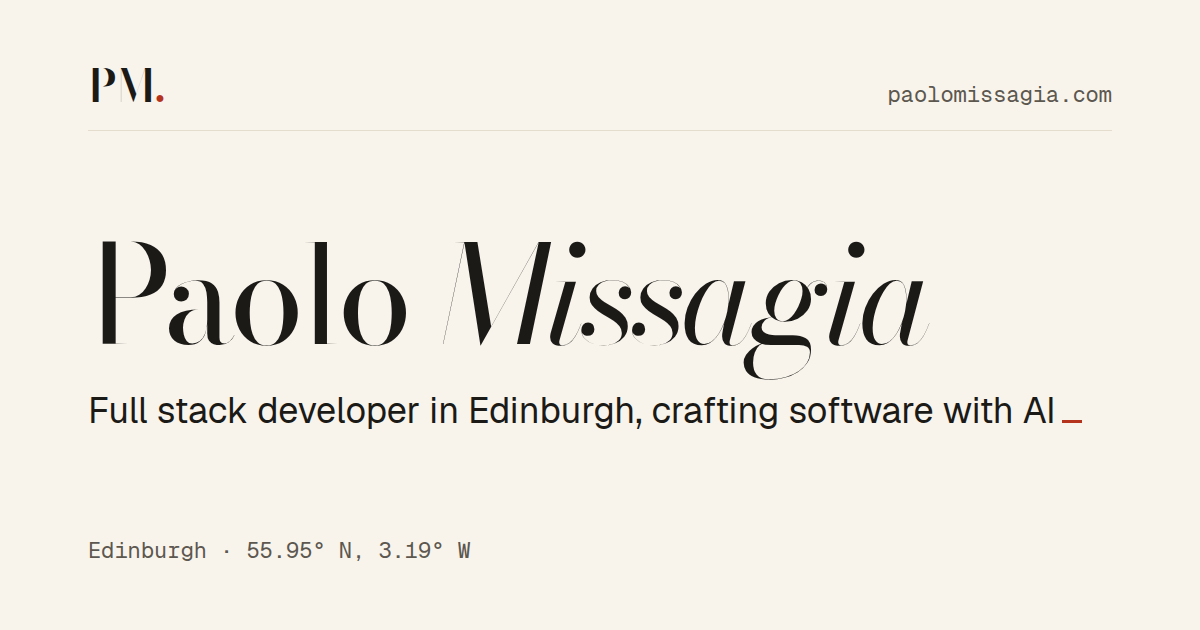
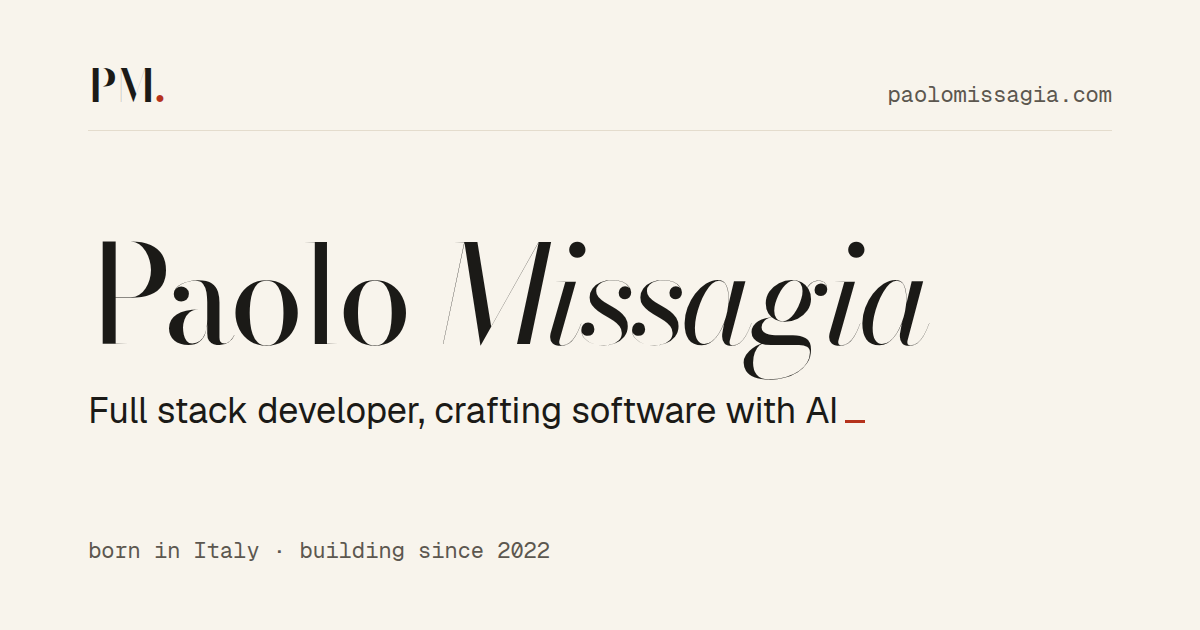
experience before projects; name the practice, not the product; no home city
Sections run Experience, Projects, Method, Off the clock, Contact. Claude
Code and Edinburgh are gone from the site and the brand: the site says AI
and agents, and Italy is where Paolo comes from. A test keeps both out.

Changed region(s): [[0.3392, 0.6333, 0.8942, 0.6937], [0.0617, 0.8444, 0.4625, 0.9048]]

diff --git a/src/pages/Home.tsx b/src/pages/Home.tsx
@@ -6,7 +6,7 @@ import { projects } from '../data/projects'
 
 const steps = [
   { name: 'Brief', text: 'A brand and a spec before any code: who it is for, how it sounds, what it must get right.' },
-  { name: 'Build', text: 'Agents, mostly Claude Code, write much of the code while I steer the design and the trade-offs.' },
+  { name: 'Build', text: 'AI agents write much of the code while I steer the design and the trade-offs.' },
   { name: 'Check', text: 'I review every change. Tests, sourced facts and a clean build keep the work honest.' },
 ]
 
@@ -16,16 +16,16 @@ export function Home() {
       <section className="hero" aria-labelledby="name">
         <div className="row">
           <p className="note">
-            Edinburgh
+            born in Italy
             <br />
-            55.95° N, 3.19° W
+            building since 2022
           </p>
           <div className="hero-body">
             <h1 id="name">
               Paolo <em>Missagia</em>
             </h1>
             <p className="hero-line">
-              Full stack developer in Edinburgh, crafting software with AI
+              Full stack developer, crafting software with AI
               <span className="cursor" aria-hidden="true" />
             </p>
             <p className="hero-sub">Currently at MAPAL Group.</p>
@@ -33,11 +33,28 @@ export function Home() {
         </div>
       </section>
 
+      <Section id="experience" numeral="I" eyebrow="Percorso" title="Experience" note="most recent first">
+        <ol className="timeline">
+          {experience.map((role) => (
+            <li key={role.org}>
+              <span className="when">
+                {role.start}–{role.end ?? 'now'}
+              </span>
+              <div>
+                <h3>{role.org}</h3>
+                <p className="role">{role.title}</p>
+                {role.summary && <p>{role.summary}</p>}
+              </div>
+            </li>
+          ))}
+        </ol>
+      </Section>
+
       <Section
-        id="work"
-        numeral="I"
-        eyebrow="Lavori"
-        title="Selected work"
+        id="projects"
+        numeral="II"
+        eyebrow="Progetti"
+        title="Projects"
         note={
           <>
             two pieces
@@ -53,7 +70,7 @@ export function Home() {
         </div>
       </Section>
 
-      <Section id="method" numeral="II" eyebrow="Metodo" title="How I build" note="craft + AI">
+      <Section id="method" numeral="III" eyebrow="Metodo" title="How I build" note="craft + AI">
         <p>
           At work I build LLM-powered features into products used by hundreds of thousands of people. On my own
           projects, AI agents are part of the workshop, and every project goes through the same three steps.
@@ -63,23 +80,6 @@ export function Home() {
             <li key={step.name}>
               <h3>{step.name}</h3>
               <p>{step.text}</p>
-            </li>
-          ))}
-        </ol>
-      </Section>
-
-      <Section id="experience" numeral="III" eyebrow="Percorso" title="Experience" note="since 2022">
-        <ol className="timeline">
-          {experience.map((role) => (
-            <li key={role.org}>
-              <span className="when">
-                {role.start}–{role.end ?? 'now'}
-              </span>
-              <div>
-                <h3>{role.org}</h3>
-                <p className="role">{role.title}</p>
-                {role.summary && <p>{role.summary}</p>}
-              </div>
             </li>
           ))}
         </ol>

diff --git a/index.html b/index.html
@@ -8,20 +8,20 @@
     <link rel="apple-touch-icon" href="/favicon.png" />
     <meta name="theme-color" media="(prefers-color-scheme: light)" content="#f8f4ec" />
     <meta name="theme-color" media="(prefers-color-scheme: dark)" content="#14130f" />
-    <title>Paolo Missagia · Full stack developer in Edinburgh</title>
+    <title>Paolo Missagia · Full stack developer</title>
     <meta
       name="description"
-      content="Paolo Missagia, full stack developer in Edinburgh, crafting software with AI. Selected work, how I build, experience and contact."
+      content="Paolo Missagia, full stack developer, crafting software with AI. Experience, projects, how I build and contact."
     />
     <link rel="canonical" href="https://www.paolomissagia.com/" />
     <meta property="og:type" content="profile" />
     <meta property="og:url" content="https://www.paolomissagia.com/" />
     <meta property="og:title" content="Paolo Missagia" />
-    <meta property="og:description" content="Full stack developer in Edinburgh, crafting software with AI." />
+    <meta property="og:description" content="Full stack developer, crafting software with AI." />
     <meta property="og:image" content="https://www.paolomissagia.com/og.png" />
     <meta property="og:image:width" content="1200" />
     <meta property="og:image:height" content="630" />
-    <meta property="og:image:alt" content="Paolo Missagia, full stack developer in Edinburgh, crafting software with AI" />
+    <meta property="og:image:alt" content="Paolo Missagia, full stack developer, crafting software with AI" />
     <meta name="twitter:card" content="summary_large_image" />
     <script type="application/ld+json">
       {
@@ -31,7 +31,6 @@
         "url": "https://www.paolomissagia.com/",
         "jobTitle": "Full Stack Developer",
         "worksFor": { "@type": "Organization", "name": "MAPAL Group" },
-        "homeLocation": { "@type": "Place", "name": "Edinburgh, Scotland, United Kingdom" },
         "alumniOf": { "@type": "CollegeOrUniversity", "name": "The Open University" },
         "knowsLanguage": ["it", "en", "de"],
         "email": "mailto:hello@paolomissagia.com",

diff --git a/src/data/projects.ts b/src/data/projects.ts
@@ -17,7 +17,7 @@ export const projects: ProjectData[] = [
     label: 'sonatina.eu',
     description:
       'A friendly guide to classical music: works, composers and listening guides, with real recordings to play.',
-    log: ['React · TypeScript · built with Claude Code', 'public-domain art, every image credited'],
+    log: ['built with AI agents', 'every image public domain and credited'],
     palette: ['#241b13', '#f6efe2', '#85561a'],
   },
   {
@@ -25,7 +25,7 @@ export const projects: ProjectData[] = [
     url: 'https://biketoride.vercel.app',
     label: 'biketoride.vercel.app',
     description: 'Pick your road bike and size, and get the Zwift Ride settings that match its fit.',
-    log: ['React · TypeScript · built with Claude Code', 'first version in two days'],
+    log: ['built with AI agents', 'first version in two days'],
     palette: ['#1d2a4d', '#ff5d3a', '#ffd23f'],
   },
 ]

diff --git a/src/components/Layout.tsx b/src/components/Layout.tsx
@@ -3,9 +3,9 @@ import type { ReactNode } from 'react'
 const YEAR = new Date().getFullYear()
 
 const nav = [
-  { label: 'Work', href: '/#work' },
-  { label: 'Method', href: '/#method' },
   { label: 'Experience', href: '/#experience' },
+  { label: 'Projects', href: '/#projects' },
+  { label: 'Method', href: '/#method' },
   { label: 'Contact', href: '/#contact' },
 ]
 
@@ -30,10 +30,8 @@ export function Layout({ children }: { children: ReactNode }) {
       <main>{children}</main>
 
       <footer className="colophon">
-        <span>
-          © {YEAR} Paolo Missagia · Edinburgh
-        </span>
-        <span>Crafted with Claude Code</span>
+        <span>© {YEAR} Paolo Missagia</span>
+        <span>Crafted with AI</span>
       </footer>
     </div>
   )

diff --git a/test/brand.test.ts b/test/brand.test.ts
@@ -28,4 +28,11 @@ describe('brand rules', () => {
   it.each(sources.filter((f) => f !== 'BRAND.md'))('%s keeps craft and AI together', (file) => {
     expect(readFileSync(join(root, file), 'utf8').toLowerCase()).not.toContain(byHand)
   })
+
+  // The site names the practice, not the product, and no home city (BRAND.md).
+  const site = sources.filter((f) => !f.endsWith('.md') && !f.startsWith('test/'))
+
+  it.each(site)('%s names no AI product or home city', (file) => {
+    expect(readFileSync(join(root, file), 'utf8')).not.toMatch(/claude|edinburgh/i)
+  })
 })

diff --git a/scripts/og-image.html b/scripts/og-image.html
@@ -75,8 +75,8 @@
     </div>
     <div>
       <h1>Paolo <em>Missagia</em></h1>
-      <p>Full stack developer in Edinburgh, crafting software with AI<span class="cursor"></span></p>
+      <p>Full stack developer, crafting software with AI<span class="cursor"></span></p>
     </div>
-    <span class="mono">Edinburgh · 55.95° N, 3.19° W</span>
+    <span class="mono">born in Italy · building since 2022</span>
   </body>
 </html>

diff --git a/src/data/experience.ts b/src/data/experience.ts
@@ -16,7 +16,7 @@ export const experience: Role[] = [
   },
   {
     org: 'Computershare',
-    title: 'Software Engineer, Edinburgh',
+    title: 'Software Engineer',
     start: 2022,
     end: 2024,
     summary: 'A client platform for 45,000+ companies: React, Spring Boot, and the move to Azure.',

diff --git a/src/index.css b/src/index.css
@@ -198,7 +198,8 @@ p {
 }
 
 .hero-line {
-  max-width: 30ch;
+  max-width: 34ch;
+  text-wrap: balance;
   font-size: 1.3rem;
   line-height: 1.45;
 }

diff --git a/BRAND.md b/BRAND.md
@@ -16,21 +16,25 @@ People searching for Paolo by name: recruiters, hiring managers, potential colla
 
 ## Voice
 
-First person, British English (he lives in Edinburgh), short sentences.
+First person, British English, short sentences.
 
 | Do | Don't |
 | --- | --- |
 | Say plainly what he does: "I build web applications, mostly in TypeScript and React." | Titles and hype: "rockstar", "ninja", "10x", "passionate about clean code" |
-| Be concrete about agentic work: what the agent did, what he decided, how it was checked. "biketoride was built with Claude Code in two days; every geometry figure is sourced and tested." | Vague AI claims: "AI-powered", "leveraging cutting-edge LLMs", "the future of coding" |
+| Be concrete about agentic work: what the agent did, what he decided, how it was checked. "biketoride was built with AI agents in two days; every geometry figure is sourced and tested." | Vague AI claims: "AI-powered", "leveraging cutting-edge LLMs", "the future of coding" |
 | Show the work and let it speak: a project, what it does, how it was built | Lists of buzzwords or skill bars ("React ████████░░") |
-| Mention Italy and Edinburgh as plain facts, with warmth | Clichés: pizza, mandolins, "la dolce vita", tartan |
+| Mention Italy as a plain fact, with warmth | Clichés: pizza, mandolins, "la dolce vita" |
 | Talk about interests with the same care as the work: opera, classical music, cycling | Generic hobbies to fill space ("I love travelling and coffee") |
 
-Taglines: *Software, crafted with AI.* · *Crafted in Edinburgh, built with AI.*
+Taglines: *Software, crafted with AI.* · *Italian craft, built with AI.*
 
-Hero line: *Full stack developer in Edinburgh, crafting software with AI.*
+Hero line: *Full stack developer, crafting software with AI.*
 
-**Craft and AI go together.** Never "made by hand", "handwritten" or "no AI", which read as anti-AI; never "AI-generated" or "built by AI", which erase the craft. Say *crafted with AI*, *built with agents*, *with Claude Code*: the person is the subject, the AI is the tool.
+**Craft and AI go together.** Never "made by hand", "handwritten" or "no AI", which read as anti-AI; never "AI-generated" or "built by AI", which erase the craft. Say *crafted with AI*, *built with AI agents*: the person is the subject, the AI is the tool.
+
+**Name the practice, not the product.** The site says AI and agents, never a specific tool or vendor: the craft is working with AI, whichever tools that means this year.
+
+**No home city.** Location is not part of the brand and may change. The site names no city; Italy is where he comes from, not where he lives.
 
 ### Content rules
 
@@ -48,11 +52,13 @@ Italy is part of the identity, not a theme. Use it sparingly and with taste:
 
   | Eyebrow | Heading |
   | --- | --- |
-  | *Lavori* | Selected work |
-  | *Metodo* | How I build |
   | *Percorso* | Experience |
+  | *Progetti* | Projects |
+  | *Metodo* | How I build |
   | *Fuori orario* | Off the clock |
   | *Contatti* | Get in touch |
+
+  In that order: experience first, so a visitor sees the career before the side projects.
 
 - **Colour names** in this file are Italian (Carta, Inchiostro, Vermiglio): the tokens in CSS use them too.
 - **Typography from Parma:** headings are set in Bodoni, the typeface of Giambattista Bodoni, printer to the Duke of Parma.
@@ -98,12 +104,12 @@ The pairing is the brand in miniature: an eighteenth-century Italian serif for t
 
 ## Signature elements
 
-- **The hero as a title page.** Name in large Bodoni, one line on what he does and where ("crafting software with AI"), set on generous paper with nothing else competing. A vermilion text cursor blinks after the last line, a nod to the terminal the old site was built around (static with reduced motion).
-- **Margin notes.** On wide screens, short mono annotations sit in the left margin beside the text they belong to, like a scholar's notes in an old book or a log from the tools: `built with Claude Code`, `43 commits · 2 days`, `Edinburgh, 55.95° N`. On narrow screens they drop above their paragraph. This is where the agentic work lives visually: quiet, factual, always there.
+- **The hero as a title page.** Name in large Bodoni, one line on what he does ("Full stack developer, crafting software with AI"), set on generous paper with nothing else competing. A vermilion text cursor blinks after the last line, a nod to the terminal the old site was built around (static with reduced motion).
+- **Margin notes.** On wide screens, short mono annotations sit in the left margin beside the text they belong to, like a scholar's notes in an old book or a log from the tools: `built with AI agents`, `first version in two days`, `born in Italy`. On narrow screens they drop above their paragraph. This is where the agentic work lives visually: quiet, factual, always there.
 - **The method in three steps** under *Metodo*: **Brief** (a brand and a spec before any code), **Build** (agents write much of the code, he steers), **Check** (he reviews every change; tests and sources keep it honest). Numbered because it is a real sequence.
 - **Workshop cards for projects.** Each project is a card with its name in Bodoni, one sentence on what it does, a mono build log (stack, how it was built, time taken), and a link. Each card may show a small swatch of that project's own palette, a craftsman showing different pieces from the same bench.
 - **Hairline rules** in Linea between sections, and a short vermilion rule under each eyebrow.
-- **Roman numerals** number the sections (I. Lavori, II. Metodo, …), a quiet echo of Sonatina's movement lists.
+- **Roman numerals** number the sections (I. Percorso, II. Progetti, …), a quiet echo of Sonatina's movement lists.
 - **One column, wide margins.** A single reading column of about 65 characters, with the margin notes outside it. No sidebars, no carousels, no parallax.
 
 ## Motion
@@ -129,9 +135,9 @@ Each gets a sentence or two under *Fuori orario*, linked to the project it inspi
 
 From Paolo, his CV and his public LinkedIn profile. The site never claims more than this.
 
-- Born in **Italy**, based in **Edinburgh, Scotland, UK**
-- **Full Stack Developer, MAPAL Group**, Feb 2024 – present, working from Edinburgh. Angular and Python (Django) on a learning platform with 500,000+ monthly users; LLM-powered chatbot features across several products; 50+ REST endpoints; reviews, mentoring, tests, releases.
-- **Software Engineer, Computershare**, Edinburgh, Sep 2022 – Feb 2024. React and Java (Spring Boot) on a client platform for 45,000+ companies; migration from on-premises to Azure with Docker and Kubernetes.
+- Born in **Italy**. The site names no home city (see *No home city*).
+- **Full Stack Developer, MAPAL Group**, Feb 2024 – present. Angular and Python (Django) on a learning platform with 500,000+ monthly users; LLM-powered chatbot features across several products; 50+ REST endpoints; reviews, mentoring, tests, releases.
+- **Software Engineer, Computershare**, Sep 2022 – Feb 2024. React and Java (Spring Boot) on a client platform for 45,000+ companies; migration from on-premises to Azure with Docker and Kubernetes.
 - **BSc (Hons) Computing & IT, The Open University**, 2019–2022
 - Professional developer since 2022: say "four years" only while it is true, or better, let the dates speak.
 - Languages: Italian (native), English (fluent), German (A2)
